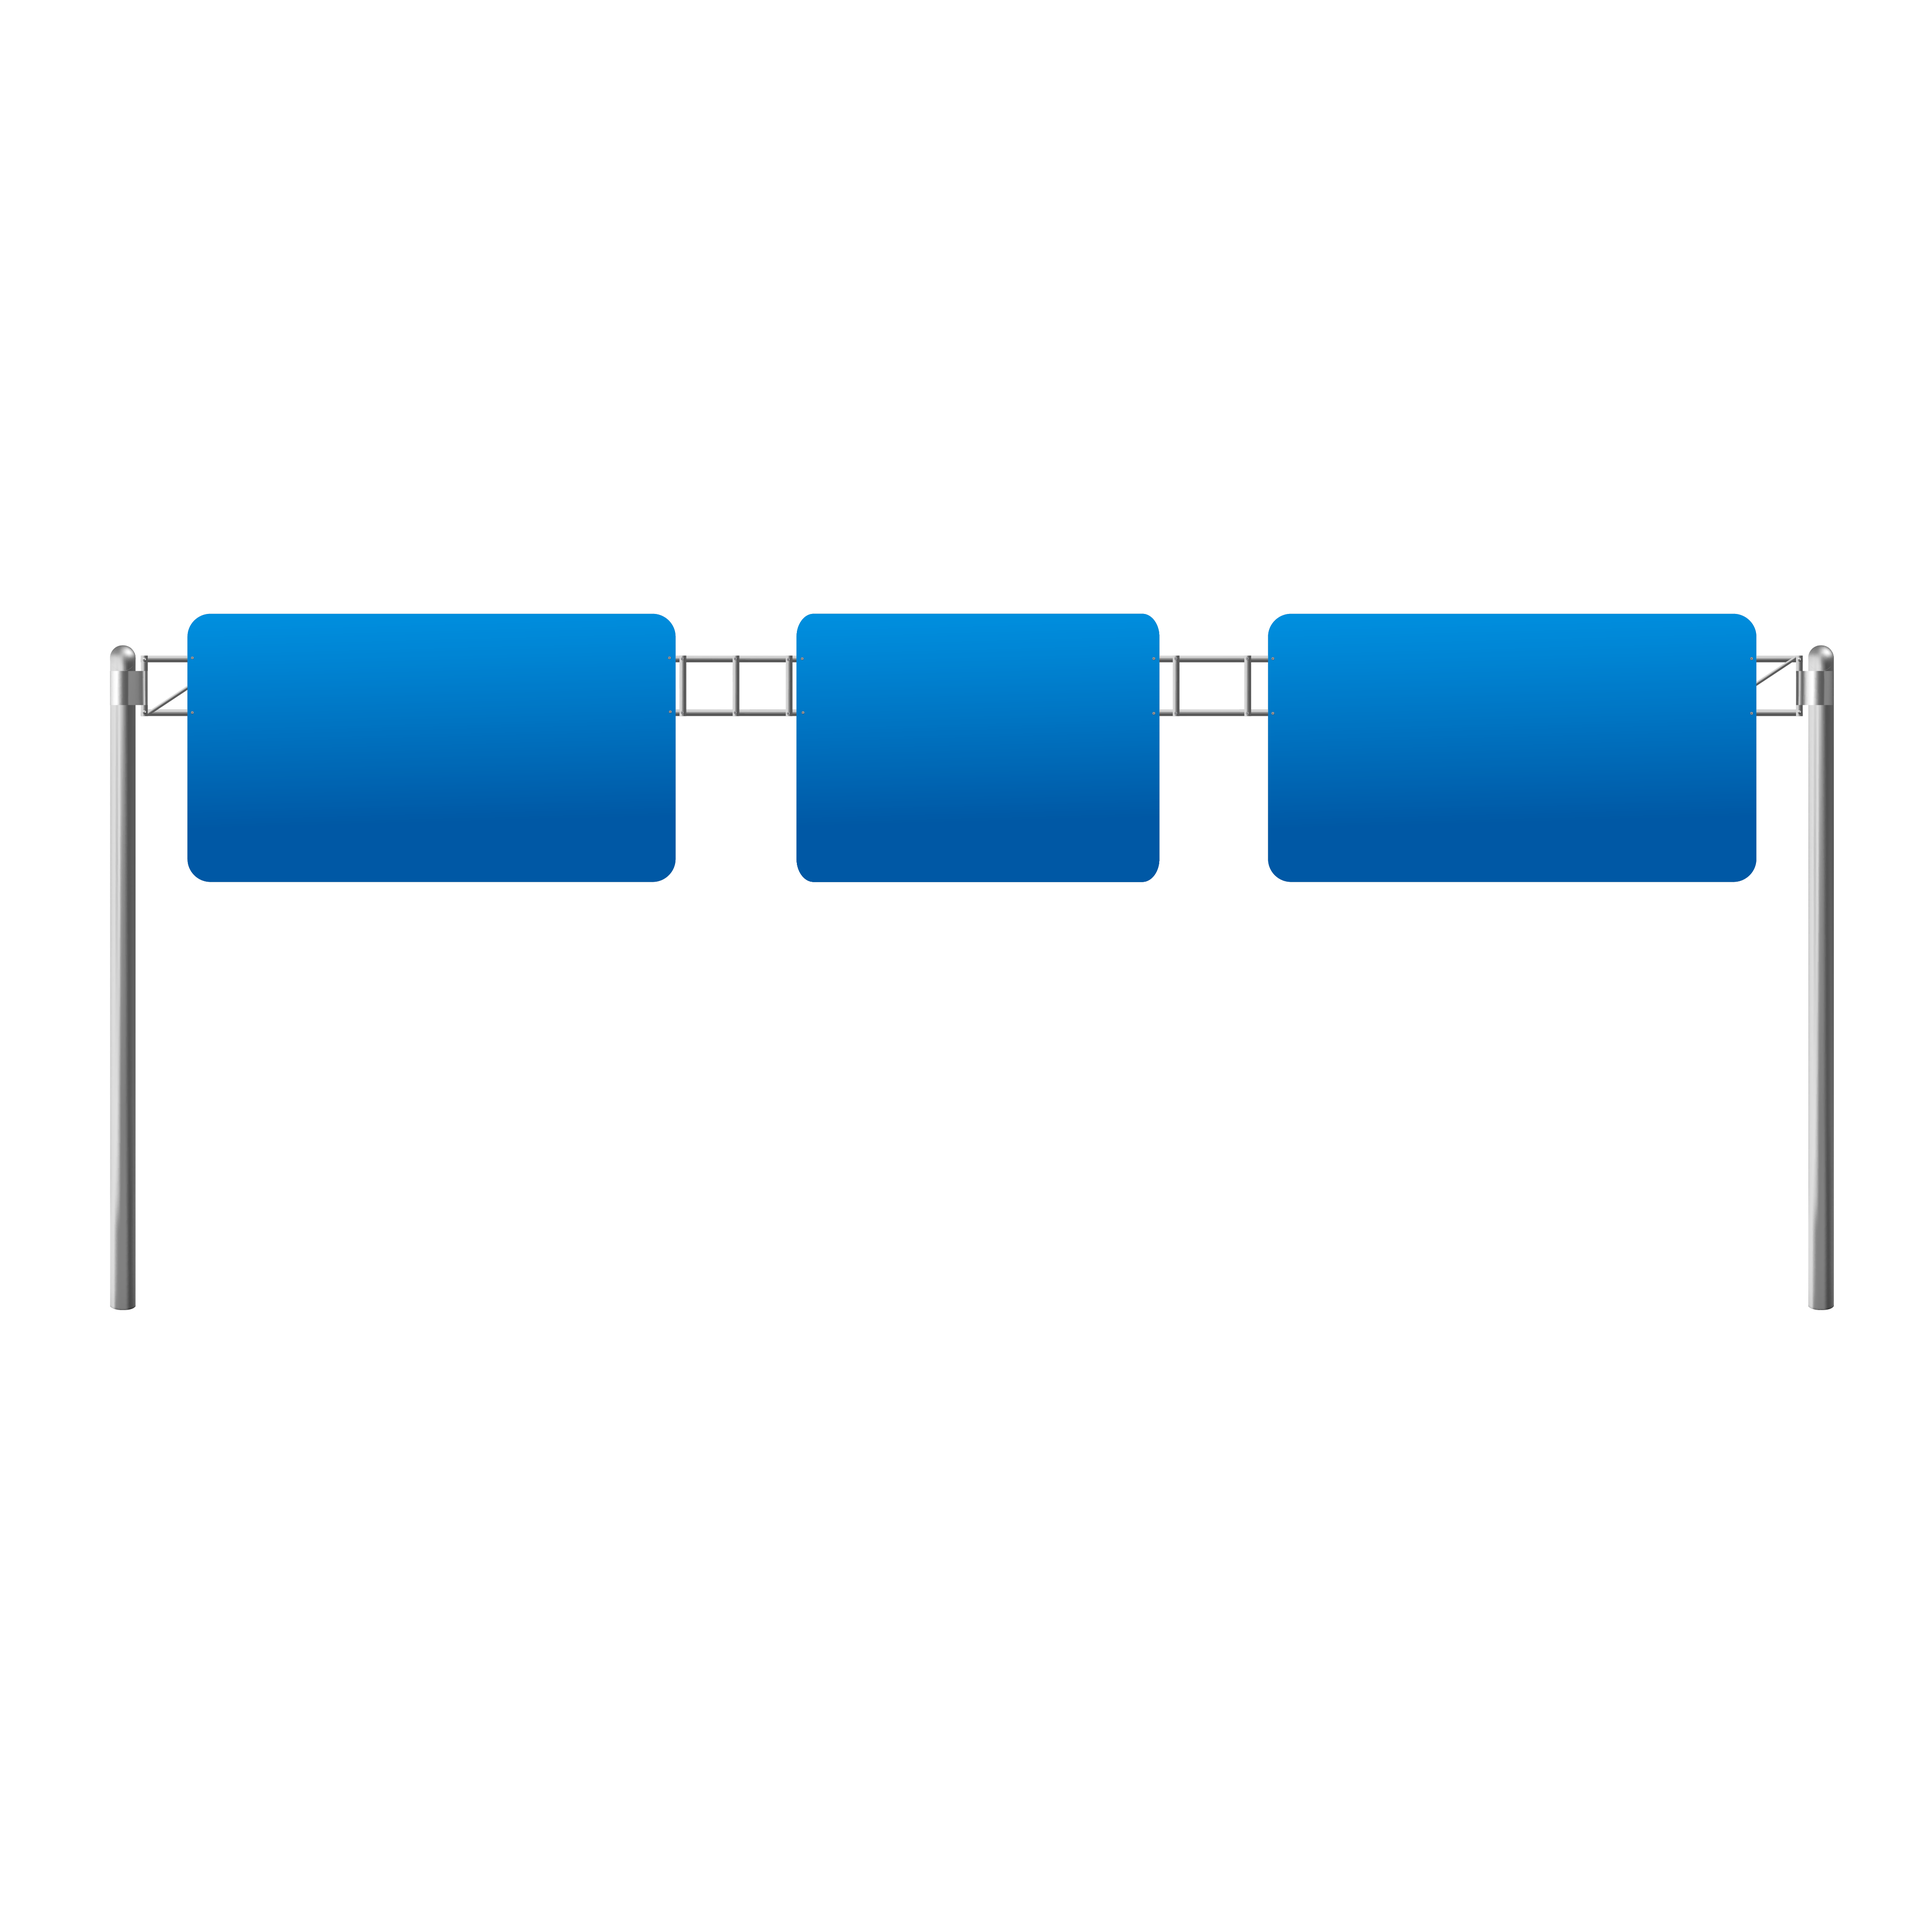
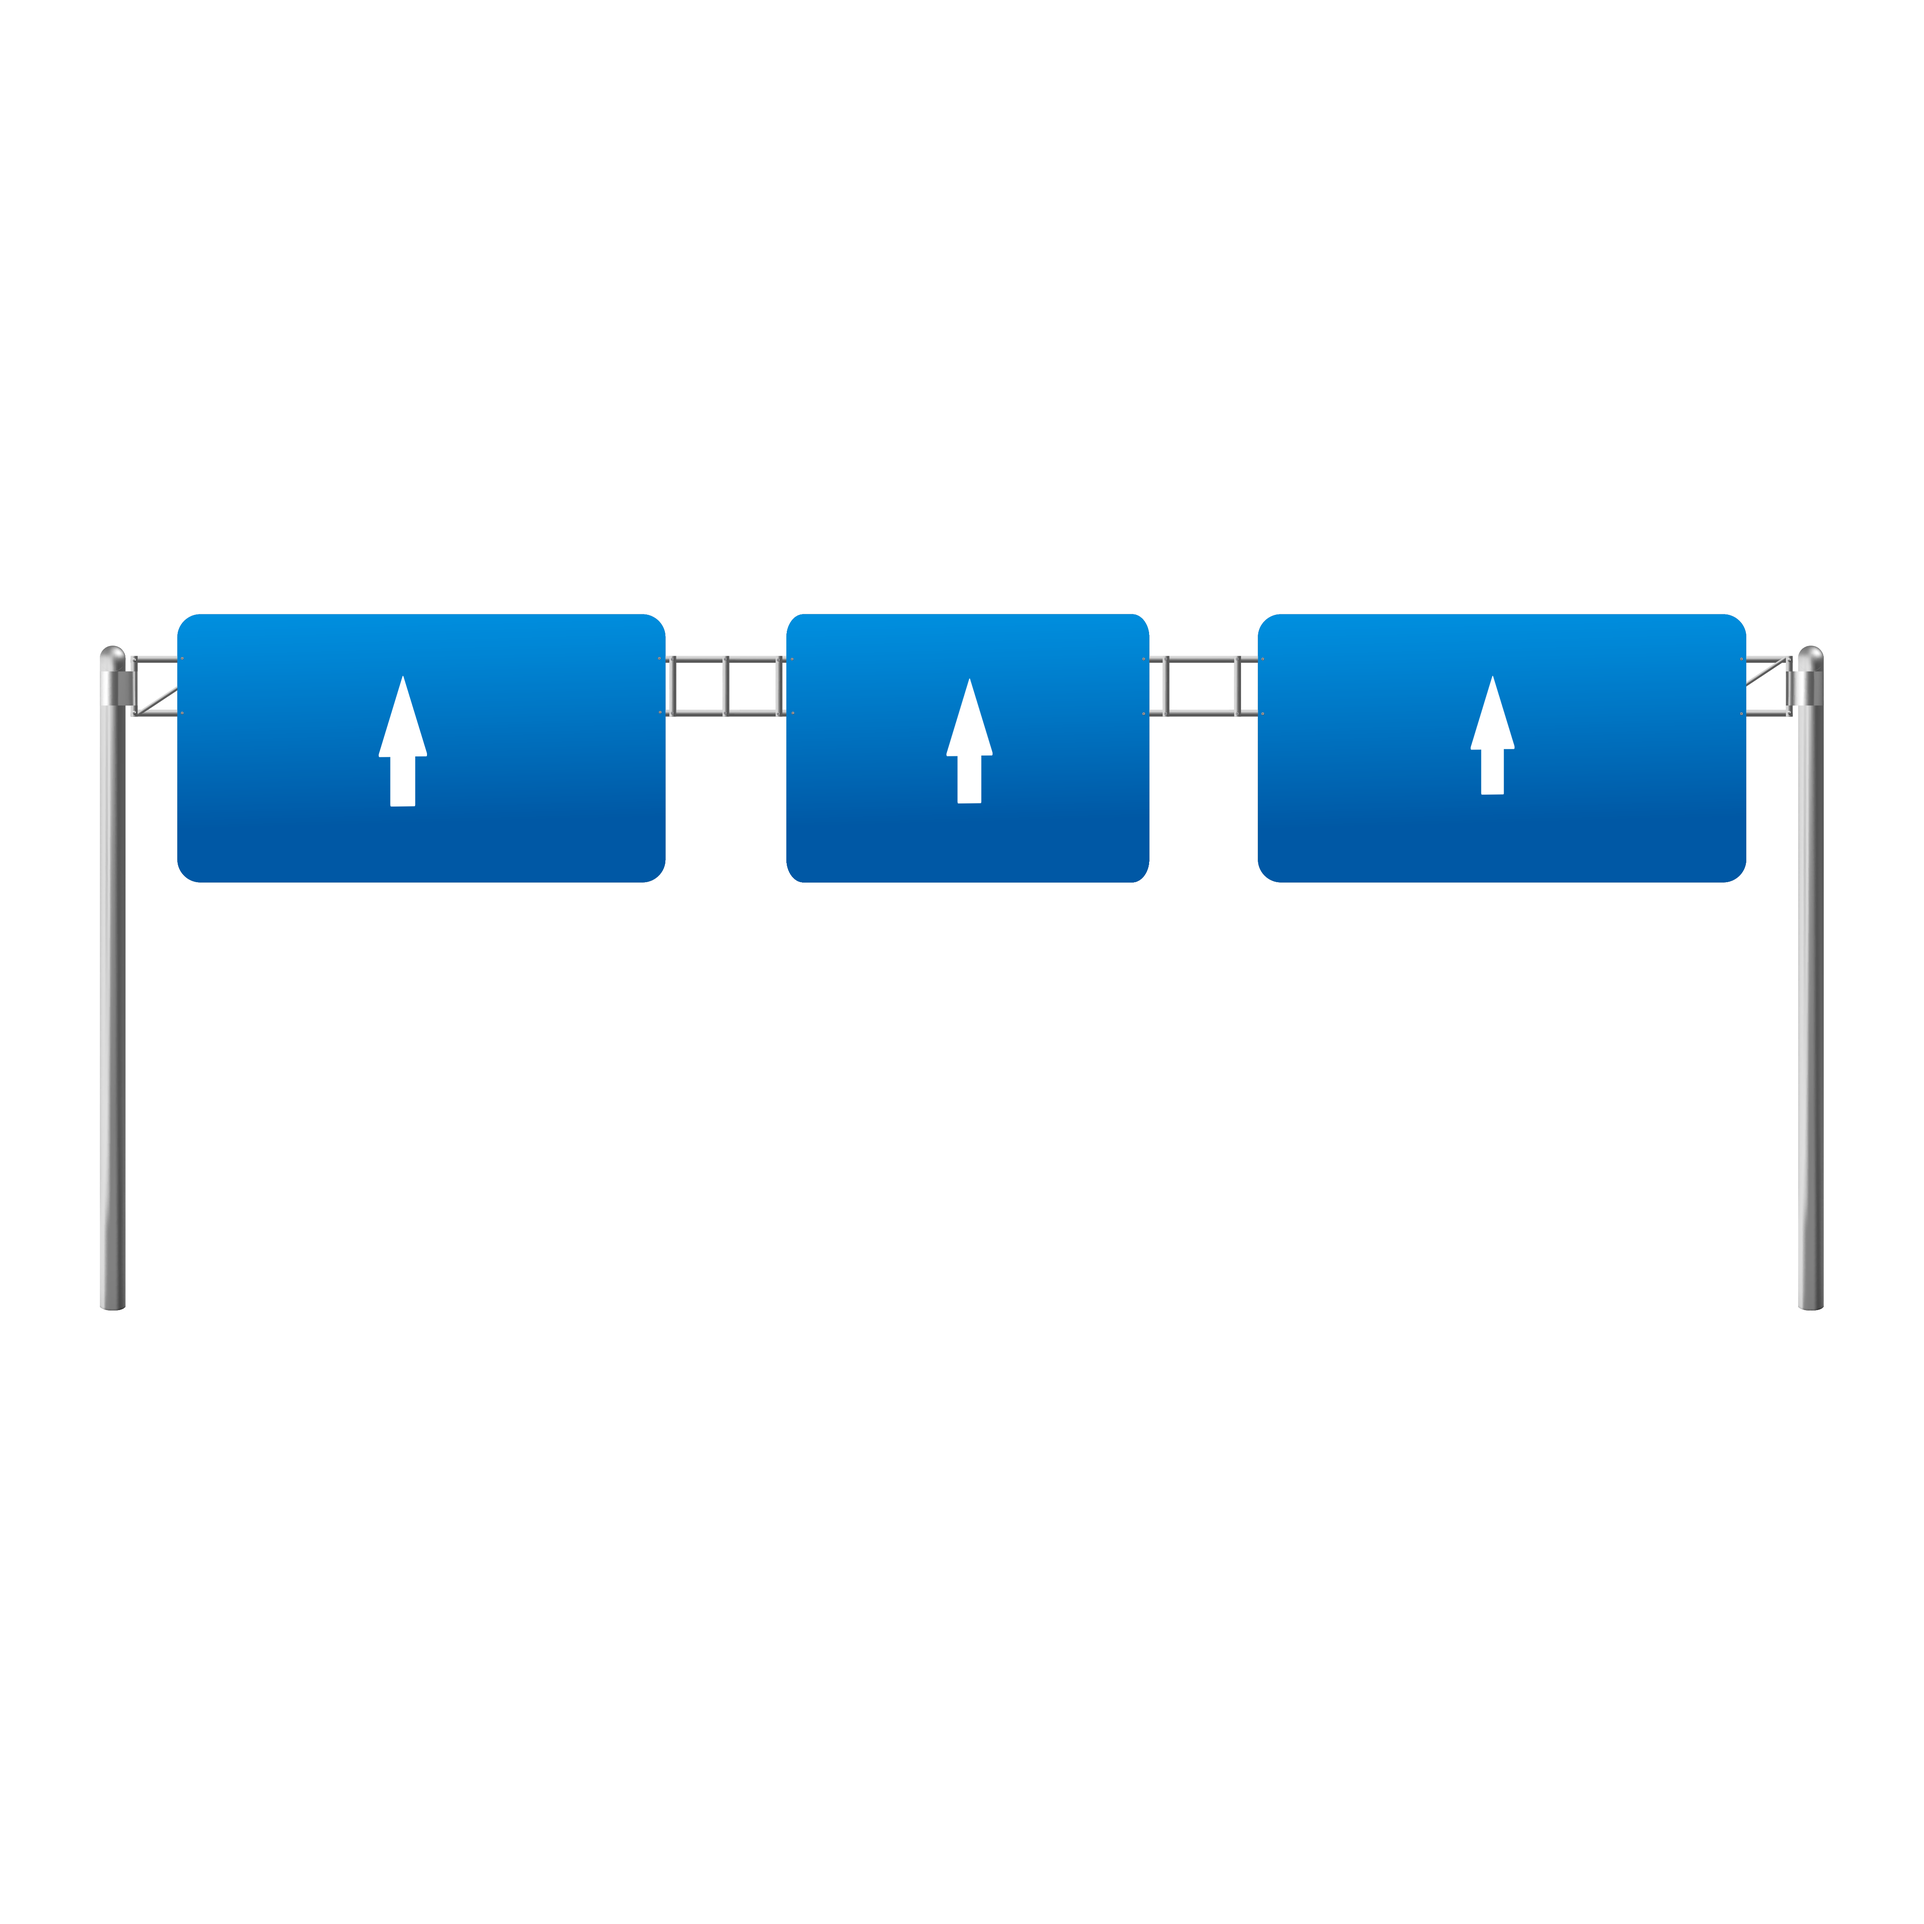
fix: road sign image

diff --git a/packages/client/src/pages/gamePage/utils/Traffic.ts b/packages/client/src/pages/gamePage/utils/Traffic.ts
@@ -3,6 +3,7 @@ import { getRandomIntBetweenInterval, isCollide, isCloseTo } from './helpers';
 import { GameConfig } from './game.config';
 import { Car } from './Car';
 import { Scenario } from './Scenario';
+import { RoadSign } from './roadside/RoadSign';
 
 /**
  * Класс управляющий трафиком
@@ -28,6 +29,8 @@ export class Traffic {
 
   scenario?: Scenario;
 
+  roadSigns: RoadSign[] = [];
+
   /**
    * Конструктор класса сценария.
    * @param {HTMLCanvasElement} canvas - Элемент Canvas.
@@ -49,6 +52,7 @@ export class Traffic {
     this.emptyLane = this.nextEmptyLane;
     this.scenario = scenario;
     this.createCars();
+    this.createRoadSigns();
   }
 
   /**
@@ -124,6 +128,22 @@ export class Traffic {
 
     return c;
   }
+  /**
+   * Создание дорожных знаков
+   */
+
+  createRoadSigns() {
+    const sideBreakPoint = Math.floor((GameConfig.roadside.roadSigns - 1) / 2);
+    let roadSignPositionIndex = 0;
+    let roadSignSide = 1;
+    for (let i = 0; i < GameConfig.roadside.roadSigns; i++) {
+      this.roadSigns[i] = new RoadSign(roadSignPositionIndex, roadSignSide);
+      if (roadSignPositionIndex >= sideBreakPoint) {
+        roadSignPositionIndex++;
+        roadSignSide = 0;
+      }
+    }
+  }
 
   /**
    * Отрисовка трафика
@@ -131,6 +151,9 @@ export class Traffic {
   draw() {
     this.cars.forEach((car) => {
       if (car) car.drawCar(this.context);
+    });
+    this.roadSigns.forEach((roadSign) => {
+      roadSign.draw(this.context);
     });
   }
 
@@ -164,9 +187,19 @@ export class Traffic {
       this.verifyPlayerCollision();
       this.verifyCollisionWithObstacles();
     }
-
+    this.updateRoadSigns(speed);
     this.changeEmptyLane();
     this.tryChangeEmptyLane();
+  }
+  /**
+   * Обновление дорожных знаков
+   * @param {number} speed - Скорость смещения.
+   */
+
+  updateRoadSigns(speed: number) {
+    this.roadSigns.forEach((roadSign) => {
+      roadSign.update(this.canvas.height, speed);
+    });
   }
 
   /**

diff --git a/packages/client/src/pages/gamePage/utils/Scenario.ts b/packages/client/src/pages/gamePage/utils/Scenario.ts
@@ -3,7 +3,6 @@ import { Tree } from './roadside/Tree';
 import { GameConfig } from './game.config';
 import { Obstacle } from './Obstacle';
 import { Light } from './roadside/Light';
-import { RoadSign } from './roadside/RoadSign';
 import { RoadObject } from './roadside/RoadObject';
 
 /**
@@ -29,8 +28,6 @@ export class Scenario {
   trees: Tree[] = [];
 
   lights: Light[] = [];
-
-  roadSigns: RoadSign[] = [];
 
   roadObjects: RoadObject[] = [];
 
@@ -59,7 +56,6 @@ export class Scenario {
 
     this.createTrees();
     this.createLights();
-    this.createRoadSigns();
     this.createRoadObjects();
   }
 
@@ -89,9 +85,6 @@ export class Scenario {
     this.roadObjects.forEach((roadObject) => {
       roadObject.draw(this.context);
     });
-    this.roadSigns.forEach((roadSign) => {
-      roadSign.draw(this.context);
-    });
   }
 
   /**
@@ -113,7 +106,6 @@ export class Scenario {
 
     this.updateTrees(speed);
     this.updateLights(speed);
-    this.updateRoadSigns(speed);
     this.updateRoadObjects(speed);
   }
 
@@ -164,19 +156,6 @@ export class Scenario {
   }
 
   /**
-   * Создание дорожных знаков
-   */
-  createRoadSigns() {
-    for (let i = 0; i < GameConfig.roadside.roadSigns; i++) {
-      let roadSignPositionIndex = 0;
-      const roadSignSide = 1;
-      this.roadSigns[i] = new RoadSign(roadSignPositionIndex, roadSignSide);
-
-      roadSignPositionIndex++;
-    }
-  }
-
-  /**
    * Создание дорожных объектов
    */
   createRoadObjects() {
@@ -212,17 +191,6 @@ export class Scenario {
   updateLights(speed: number) {
     this.lights.forEach((light) => {
       light.update(this.canvas.height, speed);
-    });
-  }
-
-  /**
-   * Обновление дорожных знаков
-   * @param {number} speed - Скорость смещения.
-   */
-
-  updateRoadSigns(speed: number) {
-    this.roadSigns.forEach((roadSign) => {
-      roadSign.update(this.canvas.height, speed);
     });
   }
 

diff --git a/packages/client/src/pages/gamePage/utils/roadside/RoadSign.ts b/packages/client/src/pages/gamePage/utils/roadside/RoadSign.ts
@@ -1,24 +1,9 @@
 import roadSignImg1 from './assets/roadSign/roadSign1.png';
-// import roadSignImg2 from './assets/roadSign/roadSign2.png';
-// import roadSignImg3 from './assets/roadSign/roadSign3.png';
-// import roadSignImg4 from './assets/roadSign/roadSign4.png';
-// import roadSignImg5 from './assets/roadSign/roadSign5.png';
-// import roadSignImg6 from './assets/roadSign/roadSign6.png';
-// import roadSignImg7 from './assets/roadSign/roadSign7.png';
-// import roadSignImg8 from './assets/roadSign/roadSign8.png';
+import roadSignImg2 from './assets/roadSign/roadSign2.png';
 import { GameConfig } from '@/pages/gamePage/utils/game.config';
 import { getRandomIntBetweenInterval } from '../helpers';
 
-const roadSignImgArr = [
-  roadSignImg1,
-  // roadSignImg2,
-  // roadSignImg3,
-  // roadSignImg4,
-  // roadSignImg5,
-  // roadSignImg6,
-  // roadSignImg7,
-  // roadSignImg8,
-];
+const roadSignImgArr = [roadSignImg1, roadSignImg2];
 
 /**
  * Класс дорожных знаков.
@@ -71,7 +56,7 @@ export class RoadSign {
     this.y += speed;
     if (this.y >= maxY) {
       this.isOnScreen = false;
-      this.y = -this.height;
+      this.y = -this.height - 300;
       this.x = this.newXPosition();
     } else this.isOnScreen = true;
   }

diff --git a/packages/client/src/pages/gamePage/components/TrafficRacer/TrafficRacer.tsx b/packages/client/src/pages/gamePage/components/TrafficRacer/TrafficRacer.tsx
@@ -47,7 +47,6 @@ export const TrafficRacer: Props = memo(({ height, setGameStarted, setGameOver, 
     canvasCtxRef.current.clearRect(0, 0, GameConfig.general.width, localHeight.current);
 
     scenario.current?.drawRoad();
-    traffic.draw();
 
     if (isOver.current) {
       if (!playedCrash) {
@@ -63,7 +62,7 @@ export const TrafficRacer: Props = memo(({ height, setGameStarted, setGameOver, 
     } else if (isStarted.current && player) {
       player.current?.drawCar(canvasCtxRef.current);
     }
-
+    traffic.draw();
     if (player.current?.isSliding) {
       const slideSide = Math.random();
       if (slideSide < 0.5) {

diff --git a/packages/client/src/pages/gamePage/utils/game.config.ts b/packages/client/src/pages/gamePage/utils/game.config.ts
@@ -15,7 +15,7 @@ export const GameConfig = {
     objectsDistance: 5000,
     lights: 8,
     lightDistance: 290,
-    roadSigns: 1,
+    roadSigns: 2,
     roadSignsDistance: 5000,
   },
   collision: {
